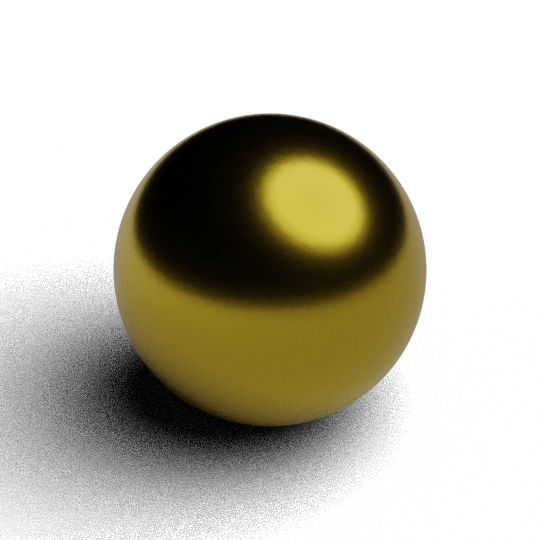
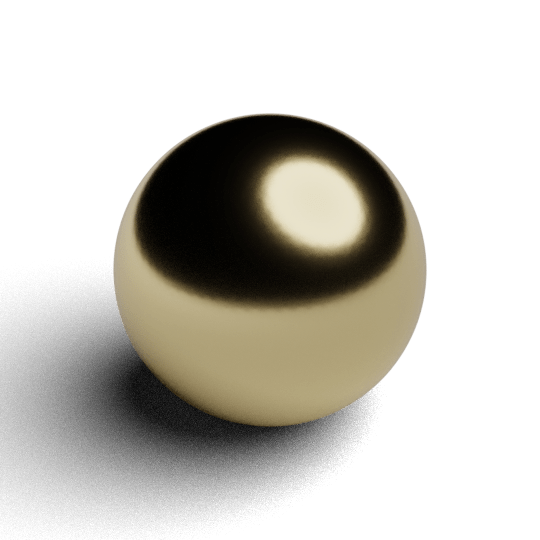
Wiki

diff --git a/blender-qmm/mats/alloys/Chrome.py b/blender-qmm/mats/alloys/Chrome.py
@@ -37,7 +37,7 @@ class QMMChrome(bpy.types.Operator):
             #princibledbsdf
             BSDF = nodes.get('Principled BSDF')
             BSDF.location = (-300,0)
-            BSDF.inputs[0].default_value = (1.0, 1.0, 1.0,1.0)
+            BSDF.inputs[0].default_value = (0.552011, 0.558340, 0.552011, 1.0)
             BSDF.inputs[6].default_value = 1
             BSDF.inputs[9].default_value = 0.012
             BSDF.inputs[16].default_value = 2.37
